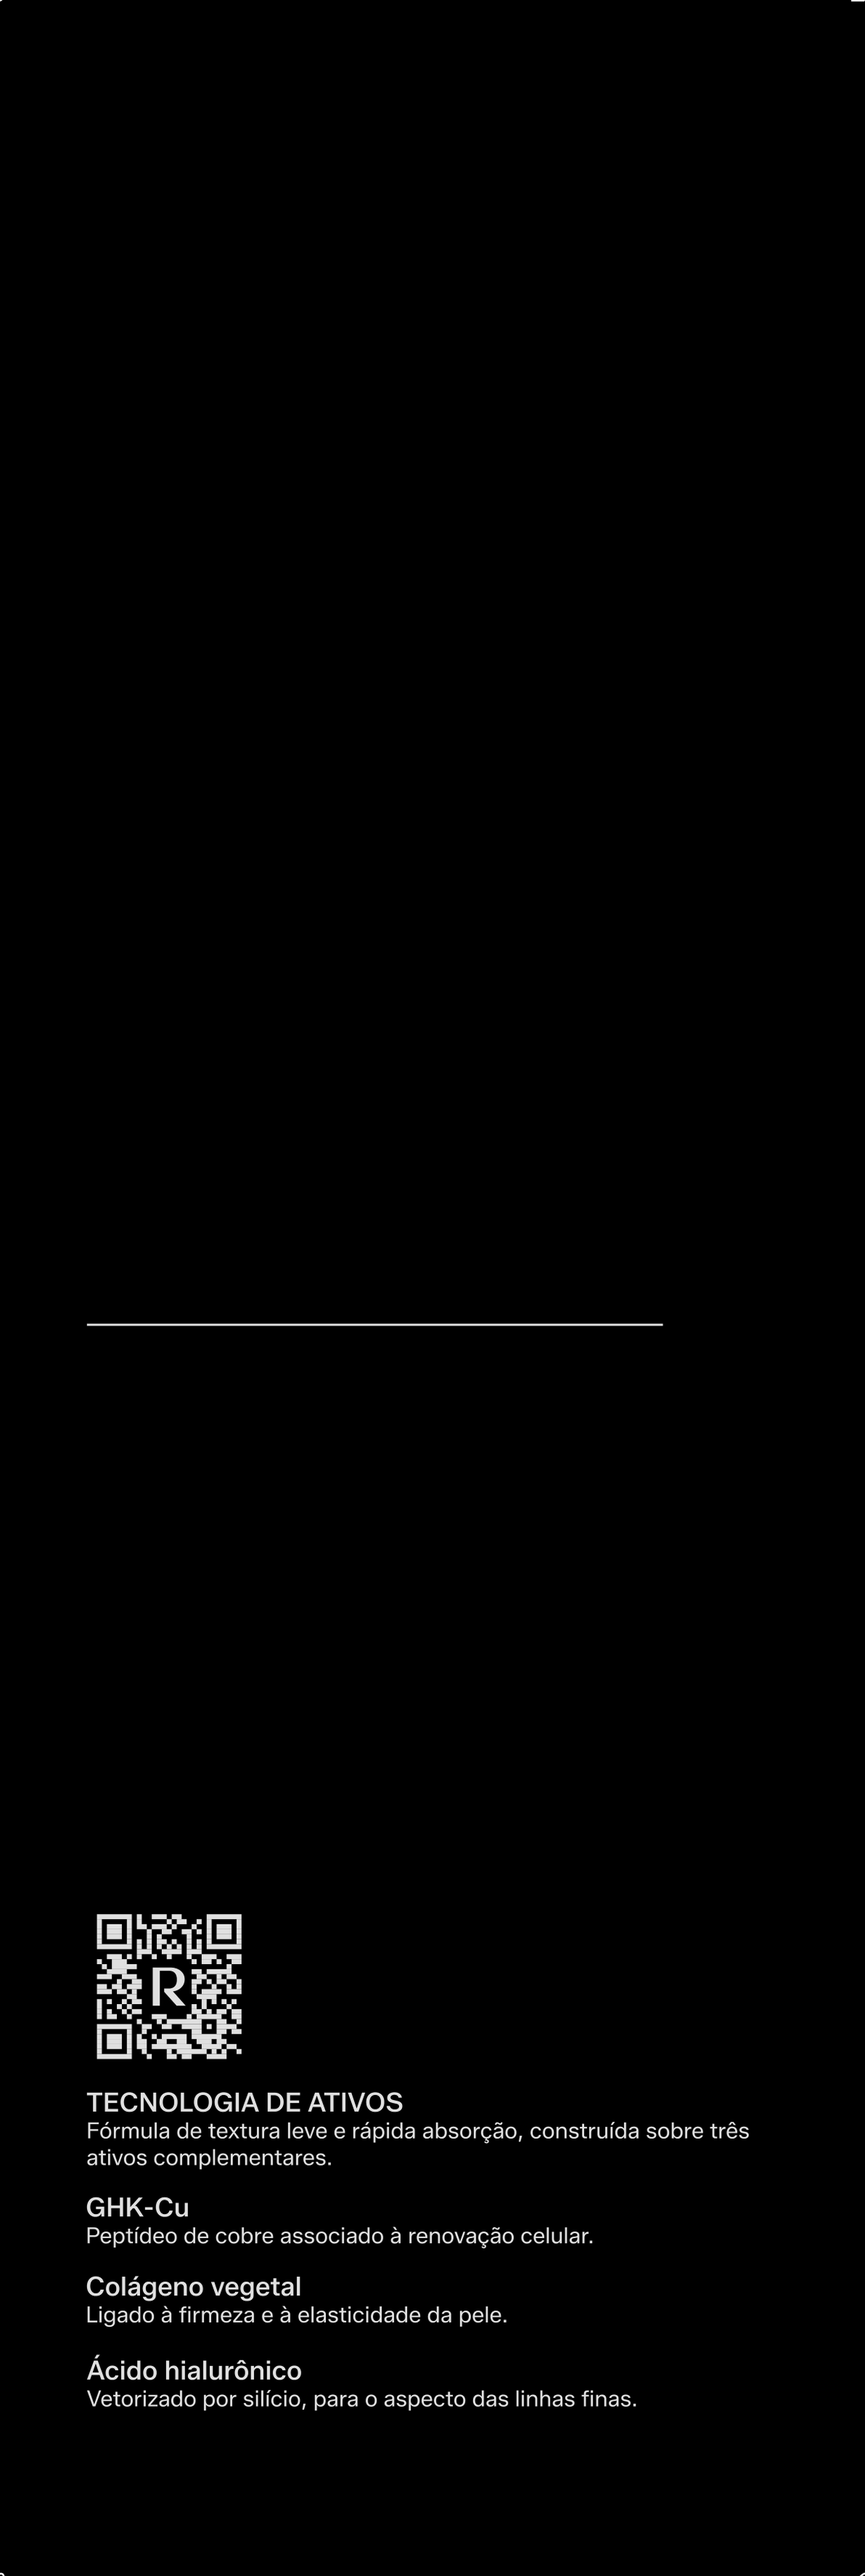
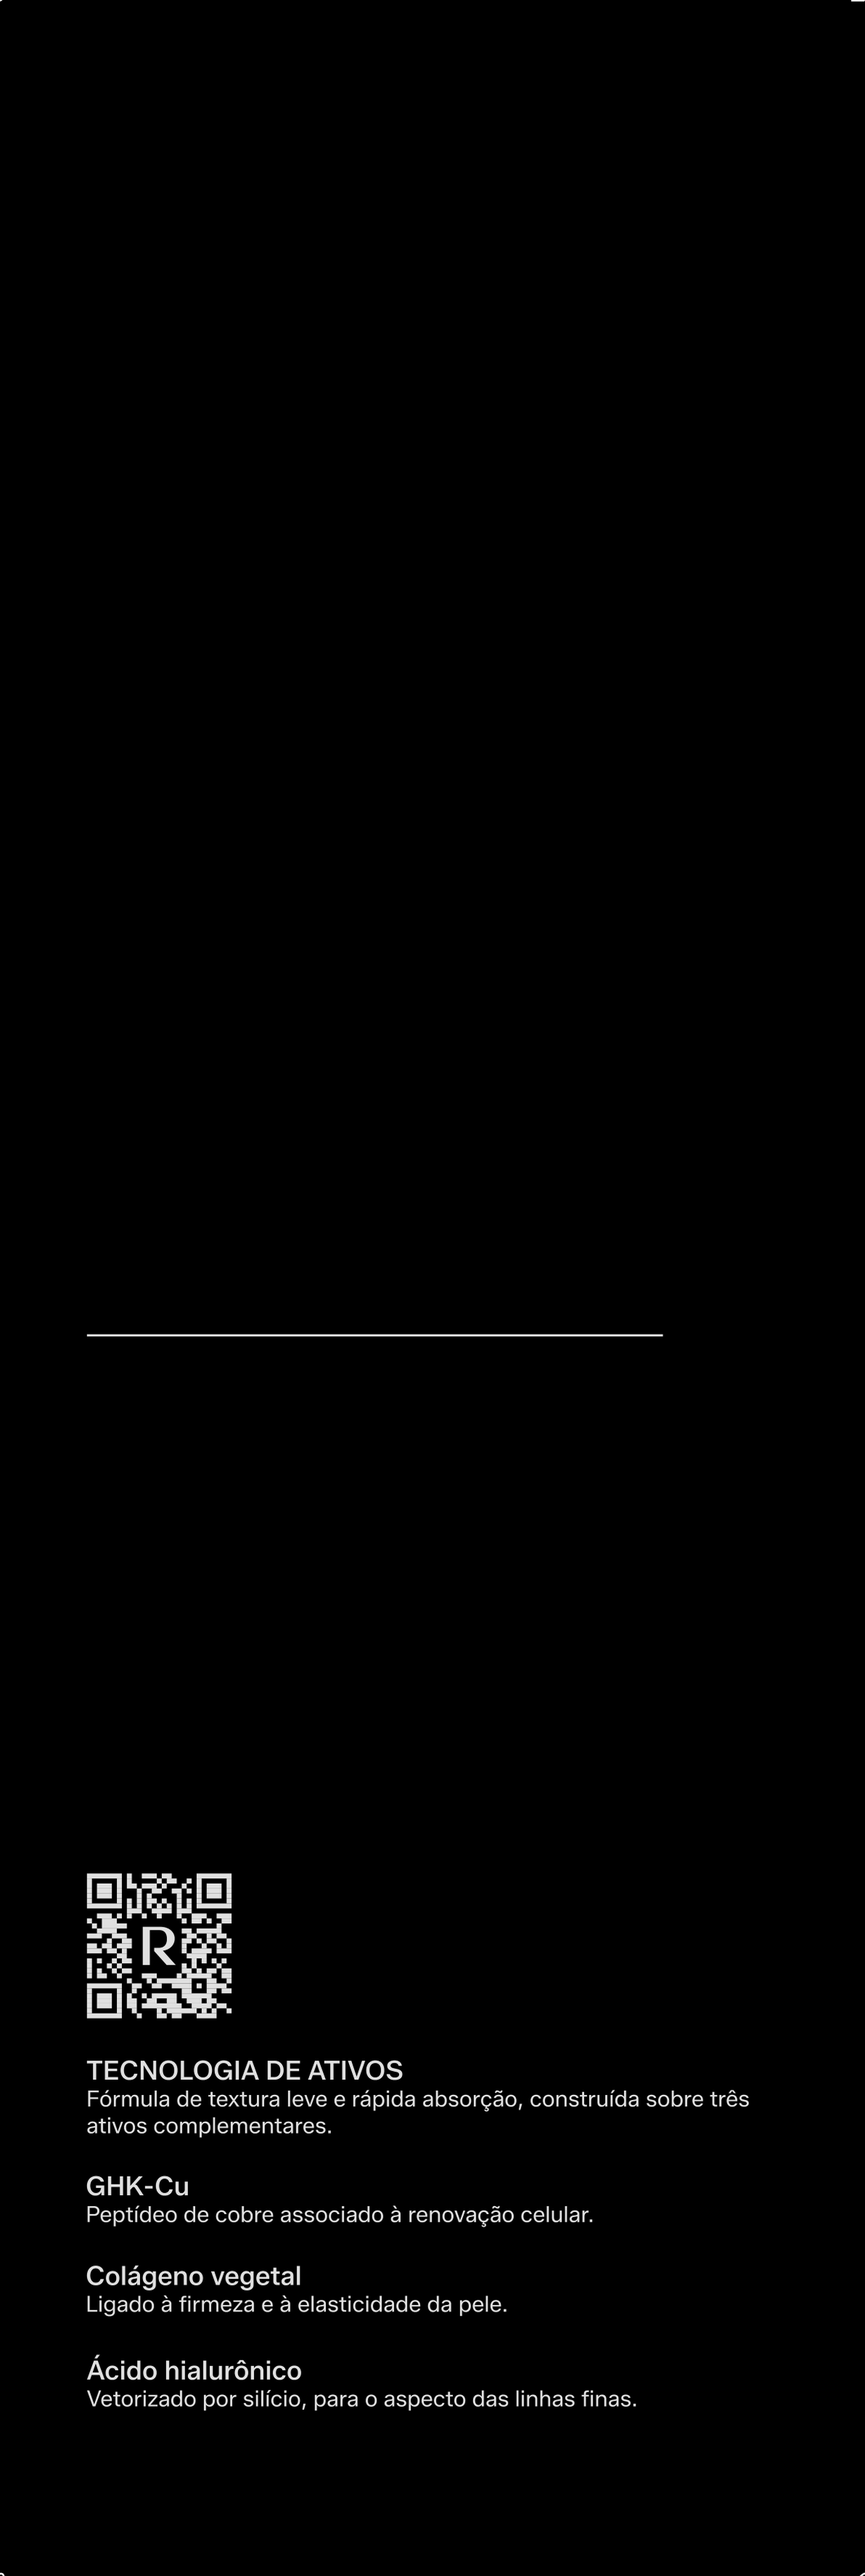
QR alinhado pelo modulo, CI 42090 na mesma linha e menos degrau ao girar
O QR parecia desalinhado porque o empilhador usava a borda do GRUPO, que
inclui o fundo branco da zona de silencio: 0,48 mm de cada lado empurravam
o desenho para dentro. Agora o alinhamento sai do modulo preto mais a
esquerda, e o QR fecha em x 58,20, o mesmo do texto acima.

"CI 42090." estava num paragrafo proprio dentro do INCI, o que forcava linha
nova com espaco sobrando. Juntado: o bloco caiu de 9 para 7 linhas e o ritmo
da face voltou a x1,04. Os blocos de endereco NAO foram juntados: ali uma
linha por item e de proposito.

A cena desenhava em metade da densidade enquanto girava e so melhorava ao
soltar o mouse. Passou para 1,5, e os quadros por segundo seguem em 60.

Changed region(s): [[0.0928, 0.7168, 0.8657, 0.9038]]

diff --git a/visualizador.js b/visualizador.js
@@ -354,7 +354,10 @@ window.addEventListener('resize', () => { redimensiona(); sujo = true; });
 // Girando desenha em 1x, parado volta para 2x: e parado que o texto pequeno precisa de
 // nitidez. A versao anterior trocava o pixelRatio mas nao redimensionava os retratos,
 // entao eles continuavam no tamanho grande e o ganho era zero.
-const PR_PARADO = Math.min(Math.max(devicePixelRatio, 2), 2), PR_MOVENDO = 1;
+const PR_PARADO = Math.min(Math.max(devicePixelRatio, 2), 2);
+// girando desenhava na metade da densidade, e o degrau ao soltar o mouse saltava
+// aos olhos. 1,5 fica perto o bastante de 2 para a troca passar despercebida
+const PR_MOVENDO = 1.5;
 let prAtual = PR_PARADO, ultimoMovimento = 0;
 function trocaResolucao(pr) {
   if (pr === prAtual) return;
